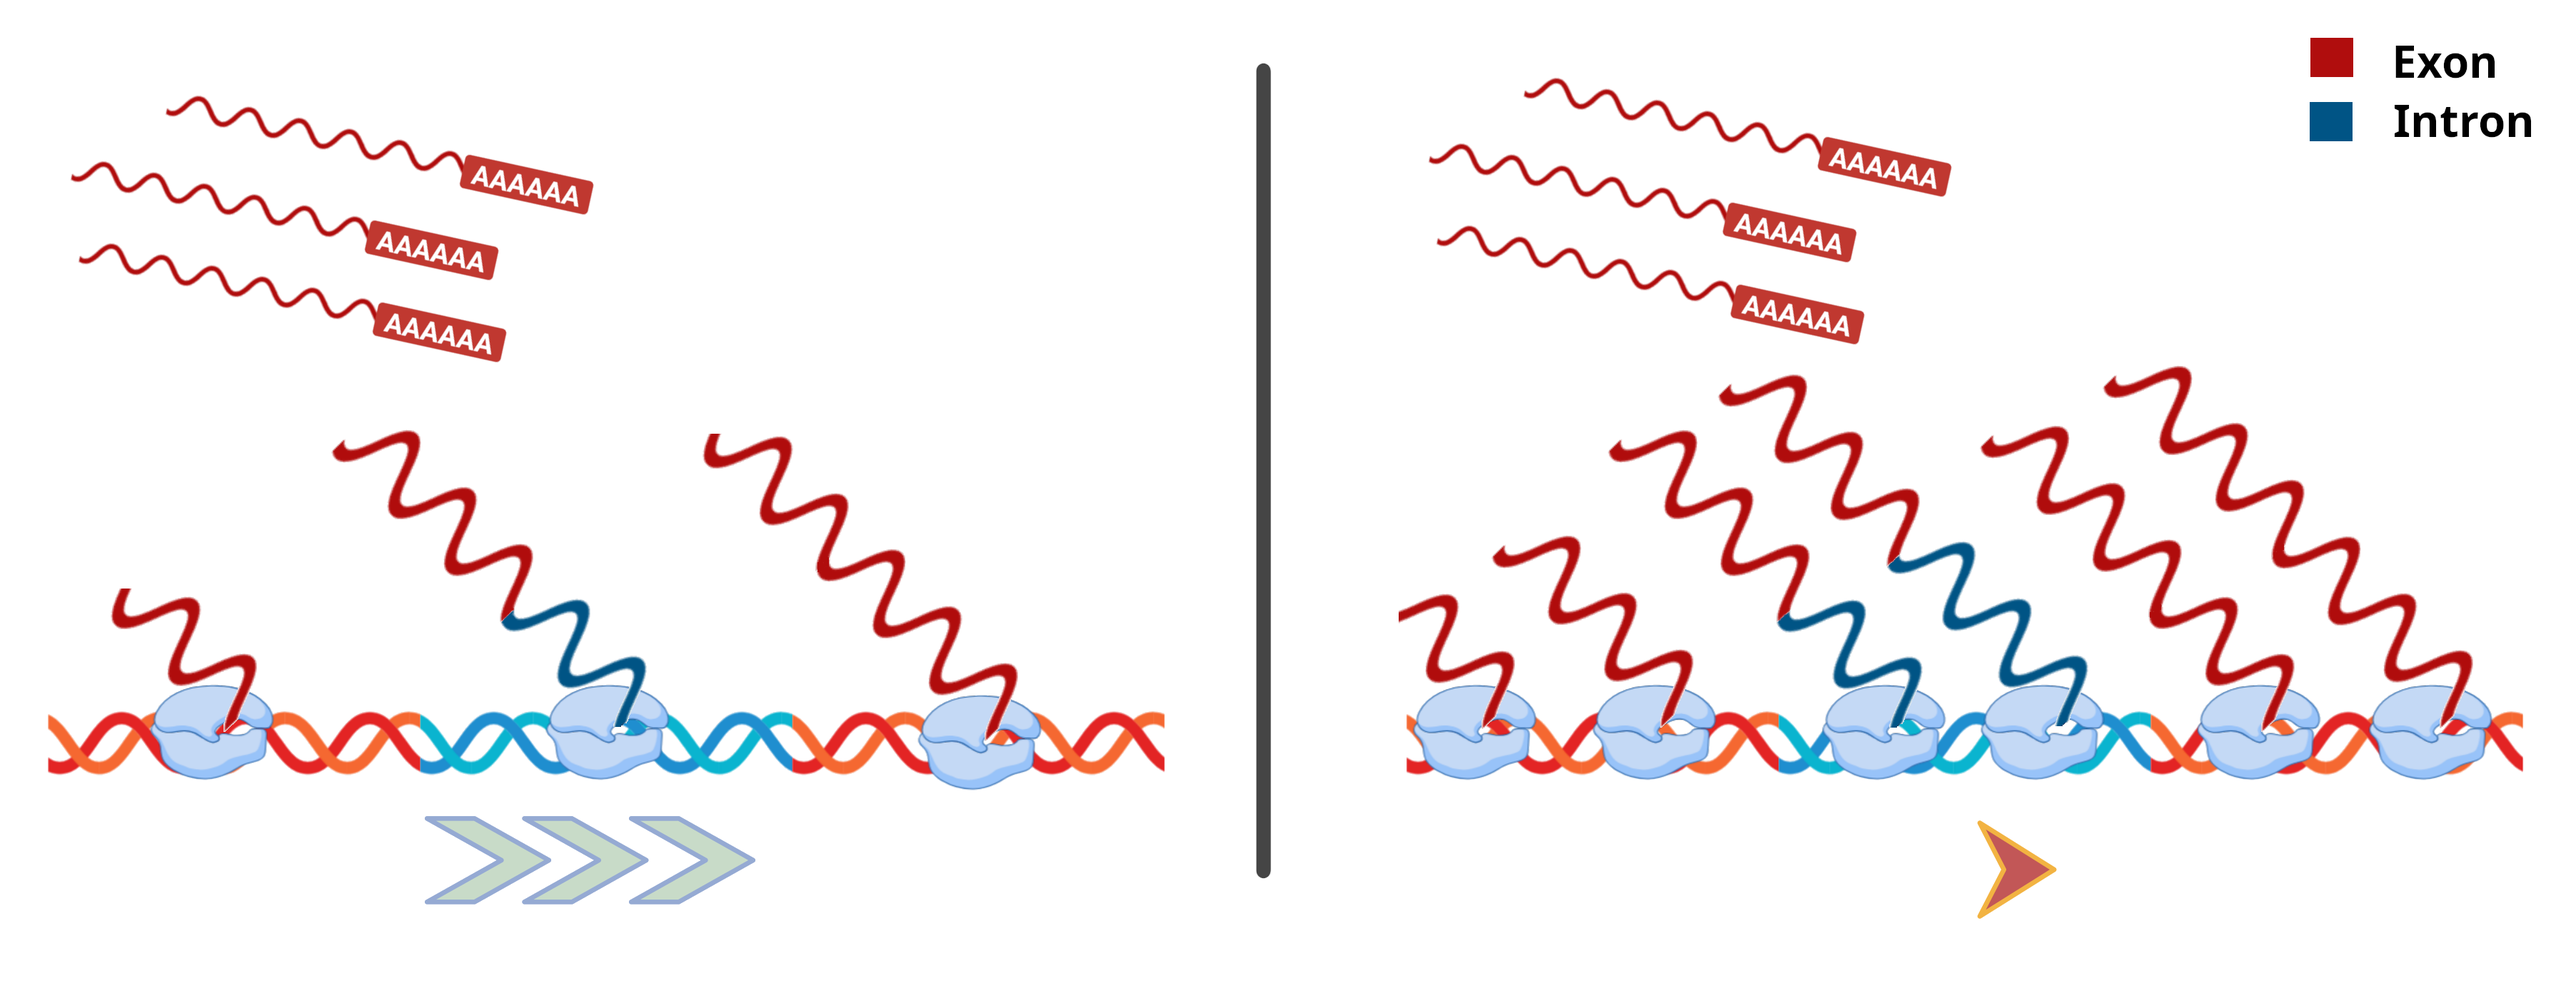
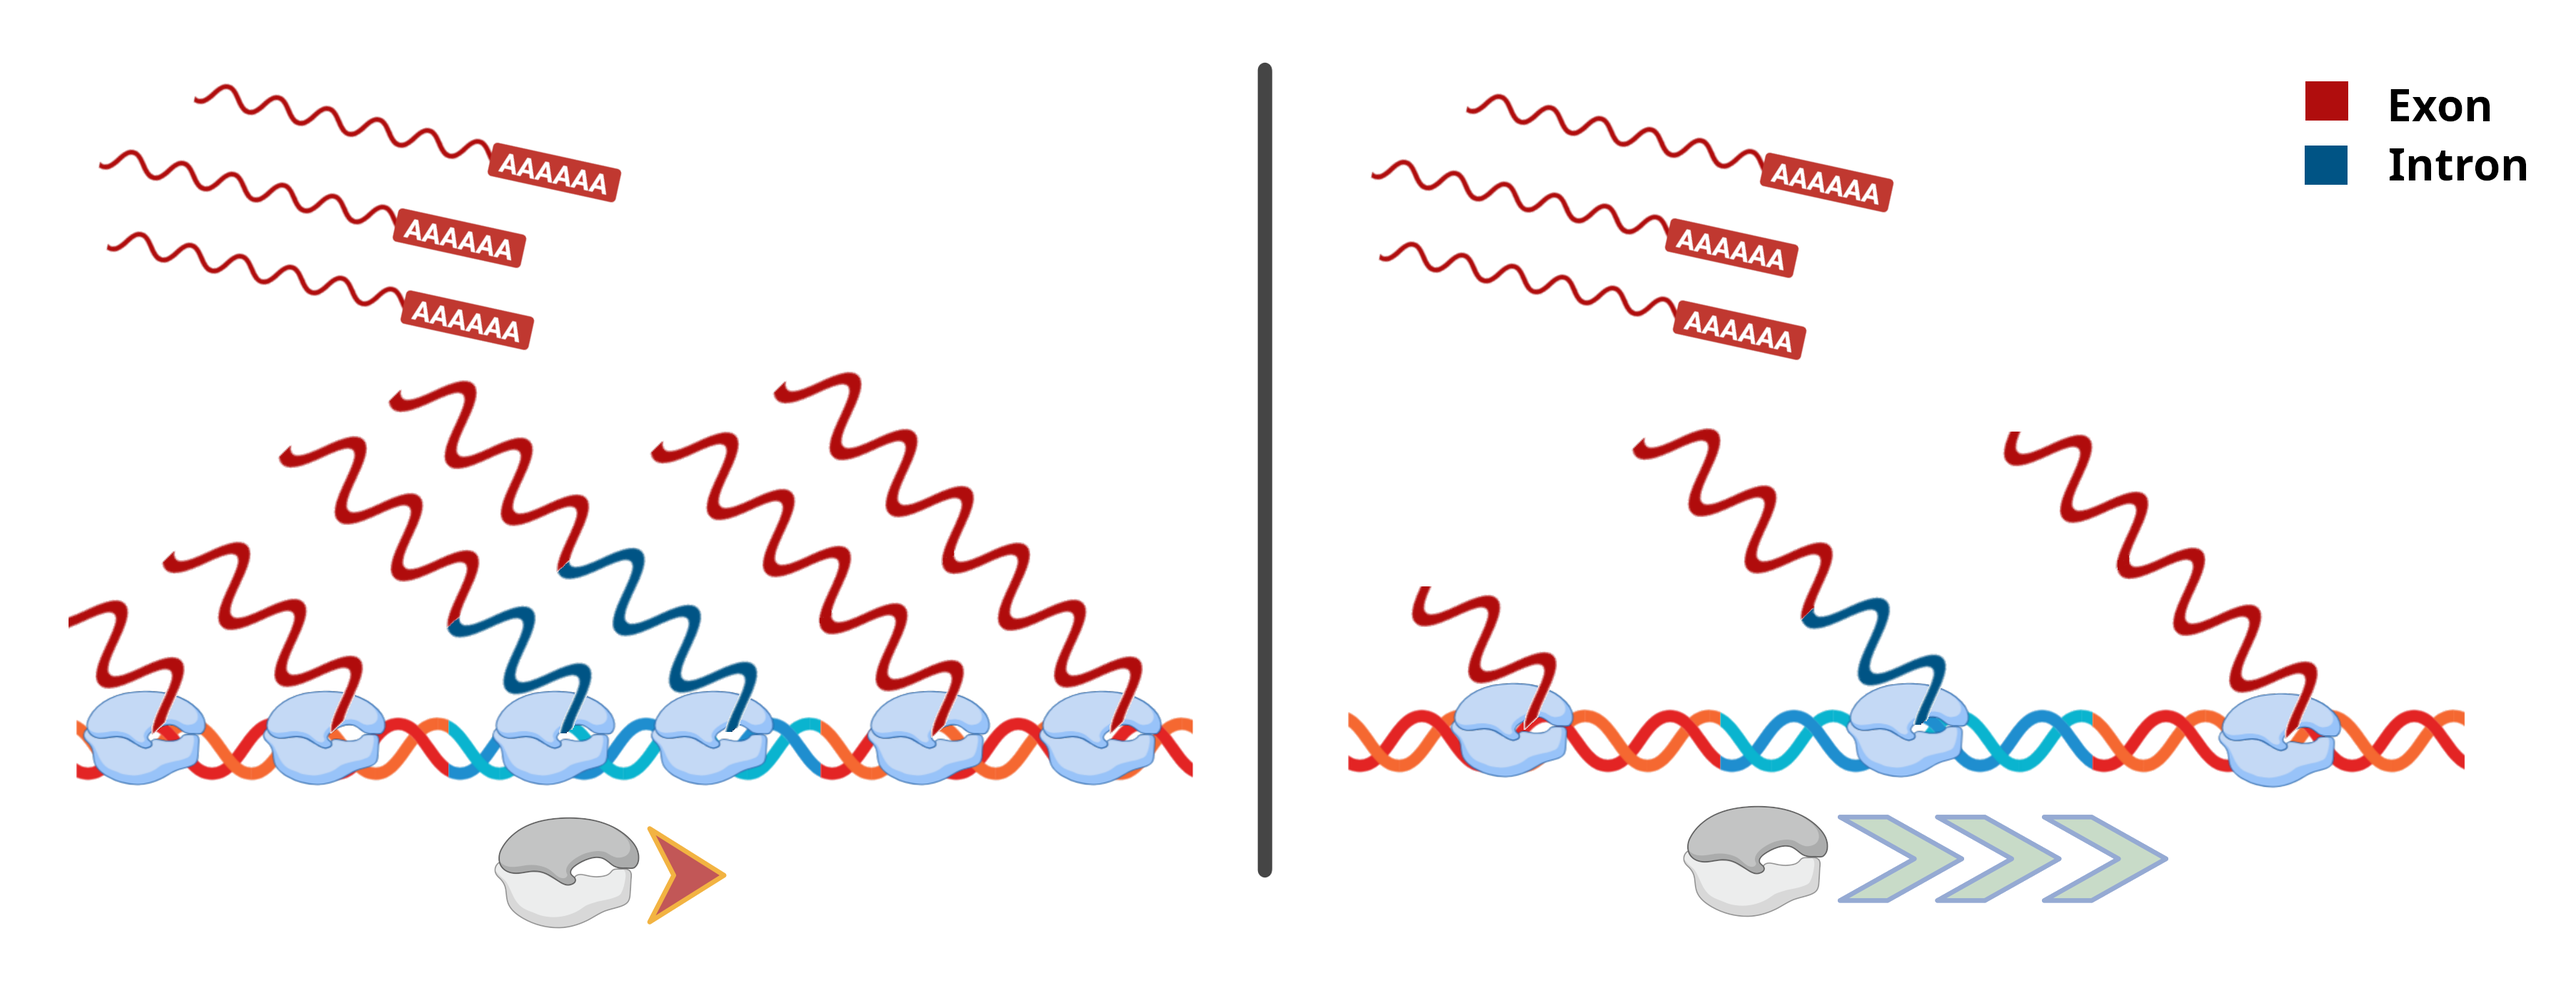
Add PR presentation.

Changed region(s): [[0.5277, 0.0624, 0.9933, 0.9361], [0.0, 0.0936, 0.4656, 0.9361], [0.8692, 0.0312, 0.9933, 0.1872]]

diff --git a/04_progress_reports/PR_03_02_2026/PR_03_02.tex b/04_progress_reports/PR_03_02_2026/PR_03_02.tex
@@ -1,0 +1,267 @@
+\documentclass{beamer}
+\usepackage{animate}
+\usepackage{amsmath}
+\usepackage{tikz}
+\usetheme{Madrid}
+\usepackage{tikz}
+\usepackage{soul}
+\usepackage[normalem]{ulem}
+\graphicspath{{./figures/}}
+
+\useinnertheme{circles}
+%Information to be included in the title page:
+\title{Measuring Changes in \sout{Pol II Speed} RNA Metabolism Kinetic Rates from Total RNA-seq}
+\author{Jakub Koubele}
+\institute{Progress Report}
+\date{3rd February, 2026}
+
+\renewcommand{\insertshortauthor}{Jakub Koubele}  
+\renewcommand{\insertshorttitle}{RNA metabolism kinectics}
+\renewcommand{\insertshortdate}{3rd February, 2026} % Define custom text for 3rd block
+
+\usepackage{amsthm}
+\newcommand*{\QED}{\hfill\ensuremath{\blacksquare}}
+
+
+
+
+
+\begin{document}
+	\frame{\titlepage}
+	
+	
+	\begin{frame}
+		\frametitle{Introduction}	
+		\pause
+		
+		
+		\begin{itemize}
+		
+			
+			\item Presentation outline:
+			\begin{itemize}
+				\item Stuff
+				\item more stuff
+				
+			\end{itemize}
+			
+		\end{itemize}		
+		
+	\end{frame}
+
+	\begin{frame}
+	\frametitle{Total RNA}	
+	\pause
+	
+	\begin{itemize}
+		\item Total RNA is a combination of nascent and mature RNA.
+	
+	
+	
+	\begin{center}
+		\includegraphics[width=9cm]{total_rna}
+	\end{center}
+
+	\pause
+	
+	\item In shorts read RNA-seq, unfinished transcripts and introns exhibit 5' coverage bias (compared to uniform coverage from finished ones).
+
+\end{itemize}
+
+\end{frame}
+
+
+\begin{frame}
+	\frametitle{RNA kinetics}	
+	\pause
+	
+	Several kinetic rates influence the total RNA composition:
+	\pause
+	\begin{enumerate}
+		\item Expression rate (how often is gene transcribed)
+		\pause
+		\item Transcription elongation speed
+		\pause
+		\item Speed of intron splicing
+		\pause
+		\item Degradation rate of mature RNA
+		\pause
+	\end{enumerate}
+	
+\end{frame}
+
+\begin{frame}
+	\frametitle{Changes in gene expression}	
+	\pause
+	\begin{itemize}
+		\item Changes in gene expression (i.e., transcription initiation rate) scales the abundance of both nascent and mature RNA of that gene.	
+	\end{itemize}	
+		\begin{center}
+			\includegraphics[width=11cm]{gene_expression}
+		\end{center}
+	
+\end{frame}
+
+\begin{frame}
+	\frametitle{Changes in elongation speed}	
+	\pause
+	\begin{itemize}
+		\item With a faster elongation (right), there are fewer polymerases currently transcribing the gene, compared to a slower elongation (left).
+	\end{itemize}	
+	\begin{center}
+		\includegraphics[width=11cm]{elongation_speed}
+	\end{center}
+	
+\end{frame}
+
+
+\begin{frame}
+	\frametitle{Changes in intron splicing speed}	
+	\pause
+	\begin{itemize}
+		\item With slower splicing (left), the sample will
+		contain more unspliced introns.
+	\end{itemize}	
+	\vspace{1em}
+	\begin{center}
+		\includegraphics[width=11cm]{splicing_time}
+	\end{center}
+	
+\end{frame}
+
+
+\begin{frame}
+	\frametitle{Changes in RNA degradation}	
+	\pause
+	\begin{itemize}
+		\item With faster degradation (right), less mature RNA will be present in the sample.
+	\end{itemize}	
+	\vspace{1em}
+	\begin{center}
+		\includegraphics[width=11cm]{rna_degradation.png}
+	\end{center}
+	
+\end{frame}
+
+\begin{frame}
+	\frametitle{RNA metabolism as a dynamic system}
+	\pause
+	We may model these four \textbf{quantities}:
+	\begin{itemize}
+		\item Nascent transcripts: $T_{nascent}$
+		\item Mature transcripts: $T_{mature}$
+		\item Nascent introns: $I_{nascent}$
+		\item Unspliced (finished) introns: $I_{unspliced}$
+	\end{itemize}	
+	\pause
+	Relevant \textbf{kinetic rates}:
+	\begin{itemize}
+		\item Transcription initiation rate $\eta, [ \eta ] = \text{polymerases} \cdot s^{-1}$
+		\item Elongation speed $v, [ v ] = \text{bp} \cdot s^{-1}$
+		\item Intron splicing (and degradation) speed $k_{splice}, [k_{splice}] = s^{-1} $
+		\item RNA degradation $k_{deg}, [k_{deg}] = s^{-1}$
+	\end{itemize}
+	\textbf{Other} symbols: 
+	\begin{itemize}
+		\item Gene and intron lengths: $L_{gene}$ and $L_{intron}$ (measured in $bp$).
+	\end{itemize}
+\end{frame}
+
+\begin{frame}
+	\frametitle{Metabolic reactions and steady state}
+	\textbf{Metabolic reactions}:
+	\pause
+	\begin{itemize}
+		\item $\text{production of } T_{nascent} = \text{production of } I_{nascent} = \eta $
+		\pause
+		\item $\text{conversion of } T_{nascent} \to T_{mature} = T_{nascent} \cdot {L_{gene}}^{-1} \cdot v$
+		\pause
+		\item $\text{conversion of } I_{nascent} \to I_{unspliced} = I_{nascent} \cdot {L_{intron}}^{-1} \cdot v$
+		\pause
+		\item $\text{removal of } T_{mature} = k_{deg} \cdot T_{mature}$
+		\pause
+		\item $\text{removal of } I_{unspliced} = k_{splice} \cdot I_{unspliced}$
+	\end{itemize}
+	In the \textbf{steady state}, productions and removals (of all quantities) are balanced:
+	\pause
+	\begin{itemize}
+		\item $\eta = T_{nascent} \cdot {L_{gene}}^{-1} \cdot v$
+		\pause
+		\item $\eta = I_{nascent} \cdot {L_{intron}}^{-1} \cdot v$
+		\pause 
+		\item $T_{nascent} \cdot {L_{gene}}^{-1} \cdot v = k_{deg} \cdot T_{mature}$
+		\pause 
+		\item $I_{nascent} \cdot {L_{intron}}^{-1} \cdot v = k_{splice} \cdot I_{unspliced}$
+	\end{itemize}
+\end{frame}	
+
+\begin{frame}
+	\frametitle{Invariance to scaling of all rates}
+	
+	\pause
+	
+	The steady state depends only on \textit{ratios} of kinetic rates:
+	\pause
+	\begin{itemize}
+		\item $\frac{\eta}{v} = \text{const. } 1$
+		\item $\frac{v}{k_{splice}} = \text{const. } 2$
+			\item $\frac{v}{k_{deg}} = \text{const. } 3$
+	\end{itemize}
+	\pause The steady state is invariant to scaling of all rates by the same number.
+	\pause
+	\begin{center}
+		\includegraphics[width=11cm]{invariance}
+	\end{center}	
+
+\end{frame}	
+
+\begin{frame}
+	\frametitle{Estimating LFCs of kinetic rates}
+	\pause
+	\begin{itemize}
+		\item The LFCs of kinetic rates are the parameters of my model.
+		\pause
+		\item I ignored the LFC of RNA degradation so far; as shown above, LFCs of all rates are not jointly identifiable anyway.
+		\pause
+		\item Observations are the reads counts (exonic and intronic), and locations (i.e., histogram) of intronic reads.
+		\pause
+		\item Loss function = negative log-likelihood of the model (function of parameters, given the observations).
+	\end{itemize}
+\end{frame}	
+
+\begin{frame}
+	\frametitle{Loss minimization}
+	\pause
+	\begin{itemize}
+		\item We want to minimize the loss function $L \colon \mathbb{R}^p \to \mathbb{R}$, where $\theta \in \mathbb{R}^p$ is a p-dimensional set of parameters.
+		\begin{center}
+			\includegraphics[width=6cm]{loss}
+		\end{center}
+		\pause
+		\item The loss function is non-convex, and may have multiple local minima.
+		\pause
+		\item Gradient-based methods (e.g., L-BFGS algorithm) may get stuck in local minima. Is there some way to always find the global minimum of a non-convex function? 
+		\pause
+		\begin{itemize}
+			\item Yes! (With some effort).
+		\end{itemize}
+	\end{itemize}
+\end{frame}	
+
+	
+	
+	
+\begin{frame}
+		\frametitle{The End}
+		Thank you for your attention!
+		
+		\begin{center}
+			\includegraphics[width=9cm]{group_picture}		
+		\end{center}
+		
+		\tiny{Illustrations in the presentation were created using BioRender.}
+\end{frame}
+	
+	
+	
+\end{document}
